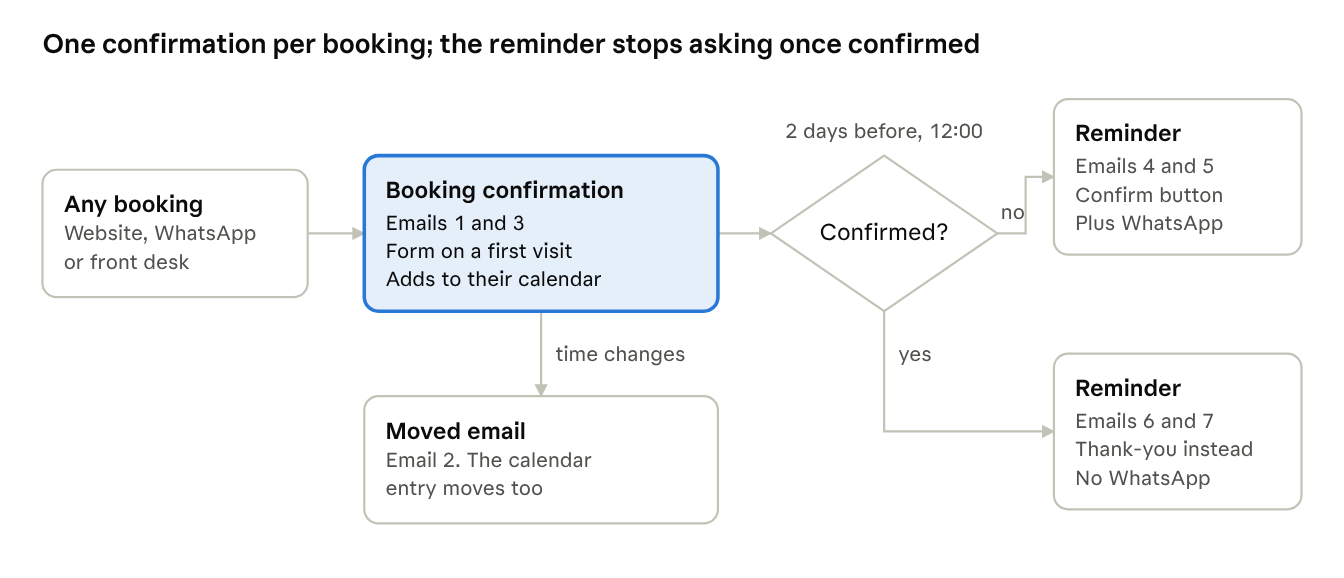
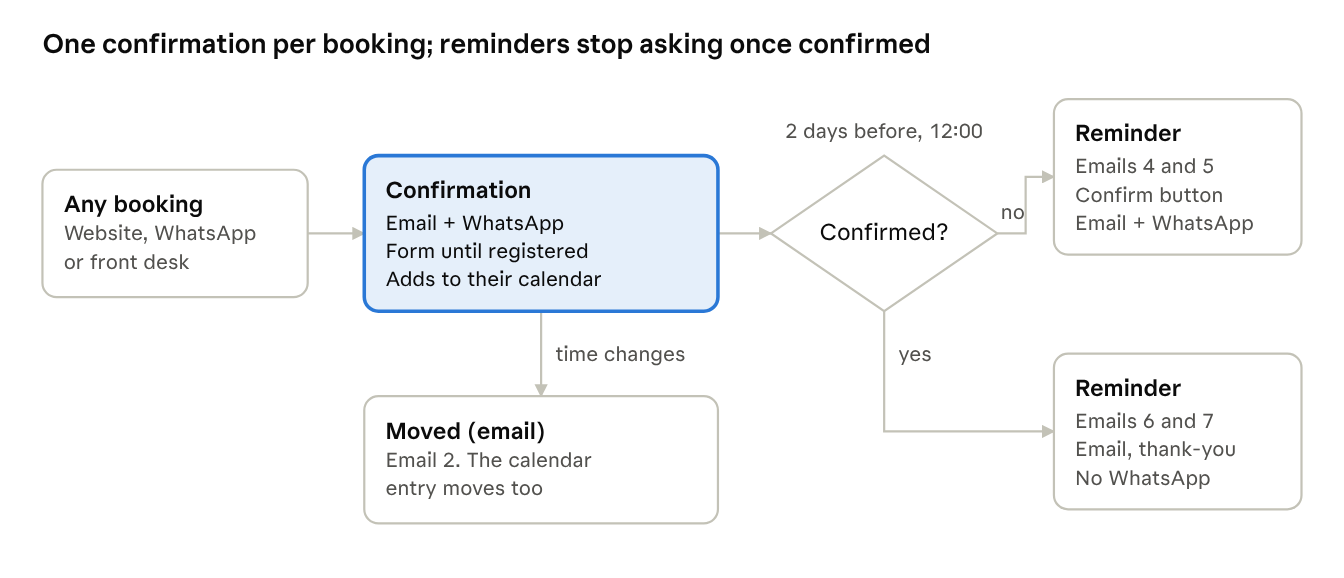
Chris page: WhatsApp confirmation and reminder in the flow

diff --git a/CHRIS-APPROVAL.md b/CHRIS-APPROVAL.md
@@ -1,10 +1,10 @@
-# Booking emails: for Chris to approve
+# Booking emails and WhatsApp messages: for Chris to approve
 
 25 Nov 2026 · prepared by Charles
 
 ![How the emails work](flow.png)
 
-Every booking gets one confirmation email, whether it was made on the website, on WhatsApp or by the front desk. A patient counts as confirmed once they tap Confirm in an email or on WhatsApp, or the front desk marks them confirmed in Plato. A cancellation sends nothing. Today's Plato confirmation and Plato's own 48-hour reminder both stop on go-live day.
+Every booking gets one confirmation by email and one on WhatsApp, whether it was made on the website, on WhatsApp or by the front desk. Two days before, the patient gets the reminder email and a WhatsApp reminder, unless they've already confirmed. A patient counts as confirmed once they tap Confirm in an email or on WhatsApp, or the front desk marks them confirmed in Plato. A cancellation sends nothing. Today's Plato confirmation and Plato's own 48-hour reminder both stop on go-live day, the same day all of this starts.
 
 ## What the test did
 
@@ -20,7 +20,7 @@ On 25 Nov we ran the new emails for real, with two test bookings on Fri 27 Nov w
 
 We also checked that the same booking never gets a second confirmation, and that only new patients get the registration form.
 
-## The emails
+## The messages
 
 The test sent seven emails, in five designs. The samples below use made-up patient names.
 
@@ -51,9 +51,21 @@ Every booking confirmation also adds the appointment to the patient's calendar, 
 ### Emails 6 and 7: 48-hour reminder, already confirmed
 ![Emails 6 and 7](email-6.png)
 
-### WhatsApp reminder (waiting for Meta's approval)
+### WhatsApp confirmation (approved by Meta)
 
-This goes out at the same time as the reminder email:
+It goes out with the confirmation email for website and front-desk bookings. Bookings made in a WhatsApp chat are confirmed in that chat instead. Patients who don't have an email on file still get this message.
+
+> Hi Sarah, your physiotherapy appointment at Goji Women's and Family Physiotherapy is confirmed for Fri 27 Nov, 7:00pm with Kristy.
+>
+> Reply here if you need to change it.
+>
+> 📍 Lentor Modern
+>
+> [Get directions]
+
+### WhatsApp reminder (approved by Meta)
+
+It goes out at the same time as the reminder email:
 
 > Hi Sarah, a reminder of your physiotherapy appointment on Fri 27 Nov, 7:00pm with Kristy at Goji Women's and Family Physiotherapy.
 >
@@ -61,20 +73,20 @@ This goes out at the same time as the reminder email:
 >
 > [Confirm] [Reschedule]
 
-Patients who have already confirmed and have an email don't get the WhatsApp reminder.
+Patients who have already confirmed and have an email don't get the WhatsApp reminder. Tapping Confirm marks them confirmed in Plato. Tapping Reschedule starts a reschedule in the chat. The wording of both WhatsApp messages is fixed by Meta's approval: changing it means resubmitting the message for approval, which takes a few days. Both were test-sent to Charles's phone on 25 Nov.
 
 ## Please approve
 
 Reply to Charles on each point:
 
 - [ ] The booking confirmation wording and layout (emails 1 and 3)
-- [ ] The "moved" email (email 2)
+- [ ] The "moved" email (email 2), and the WhatsApp confirmation going out alongside the confirmation email
 - [ ] The 48-hour reminder: today's Plato wording, plus a Confirm button or a thank-you (emails 4 to 7)
 - [ ] Reminders go out by email and WhatsApp together, and confirmed patients get no WhatsApp reminder
 - [ ] Cancellations send nothing to the patient, and the reminder asks again for a missing registration form
 - [ ] Go-live date: _______
 
-On go-live day, the front desk stops sending Plato's confirmation by hand. Plato's own 48-hour reminder is switched off the same day ours starts.
+On go-live day, the front desk stops sending Plato's confirmation by hand, and Plato's own 48-hour reminder is switched off. Our emails and both WhatsApp messages start that same day.
 
 ---
 
